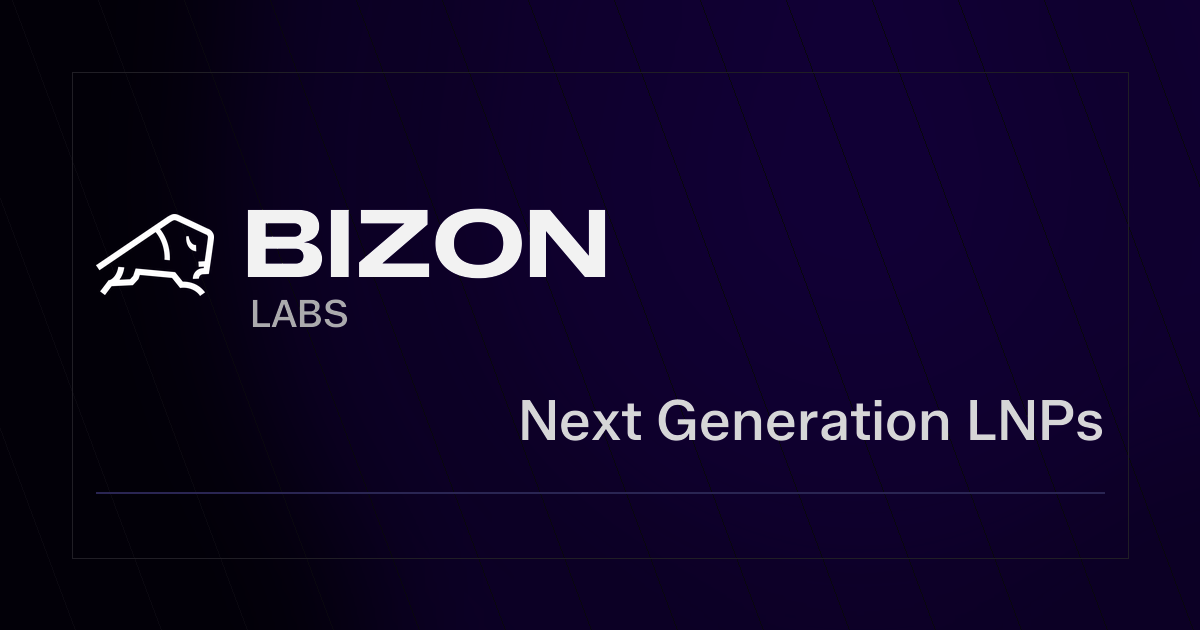
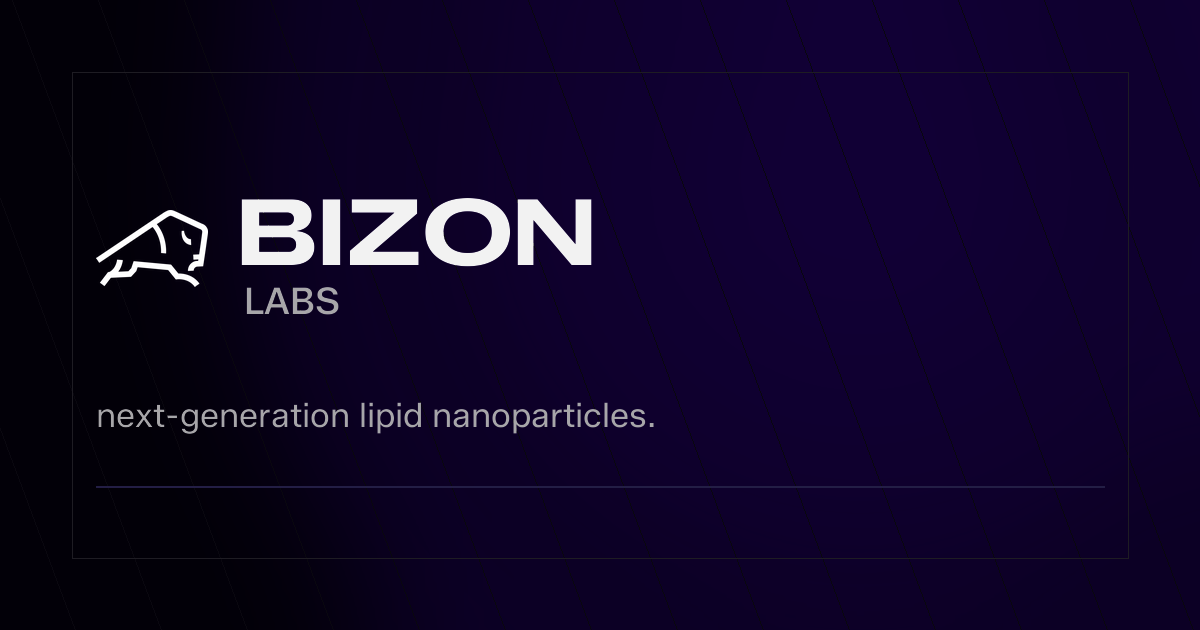
Align social preview branding

Changed region(s): [[0.0617, 0.3016, 0.5242, 0.5429], [0.0925, 0.6333, 0.925, 0.7238], [0.0925, 0.754, 0.925, 0.7841]]

diff --git a/tools/create_social_preview.py b/tools/create_social_preview.py
@@ -14,6 +14,7 @@ FONT_DIR = ROOT / "assets" / "fonts"
 ICON = ROOT / "assets" / "logos" / "bison-icon-white.svg"
 WIDTH = 1200
 HEIGHT = 630
+LEFT = 96
 
 
 def font(name: str, size: int) -> ImageFont.FreeTypeFont:
@@ -38,12 +39,12 @@ def load_bison_icon(size: int) -> Image.Image:
 
 
 def draw_wordmark(draw: ImageDraw.ImageDraw) -> None:
-    mark_font = font("ZalandoSansExpanded-Bold.ttf", 94)
-    lab_font = font("ZalandoSans-Medium.ttf", 38)
-    x = 242
-    y = 186
+    mark_font = font("ZalandoSansExpanded-Bold.ttf", 92)
+    lab_font = font("ZalandoSans-Medium.ttf", 37)
+    x = 236
+    y = 176
     draw.text((x, y), "BIZON", font=mark_font, fill=(255, 255, 255, 242))
-    draw.text((x + 8, y + 104), "LABS", font=lab_font, fill=(255, 255, 255, 170))
+    draw.text((x + 8, y + 102), "LABS", font=lab_font, fill=(255, 255, 255, 166))
 
 
 def main() -> None:
@@ -61,18 +62,17 @@ def main() -> None:
         opacity = 12 if x % 172 == 0 else 7
         draw.line([(x, 0), (x + 235, HEIGHT)], fill=(255, 255, 255, opacity), width=1)
 
-    draw.rectangle((72, 72, WIDTH - 72, HEIGHT - 72), outline=(255, 255, 255, 30), width=1)
+    draw.rectangle((72, 72, WIDTH - 72, HEIGHT - 72), outline=(255, 255, 255, 28), width=1)
 
-    icon = load_bison_icon(118)
-    overlay.alpha_composite(icon, (96, 214))
+    icon = load_bison_icon(112)
+    overlay.alpha_composite(icon, (LEFT, 210))
     draw_wordmark(draw)
 
-    line_font = font("ZalandoSans-Medium.ttf", 56)
-    text = "Next Generation LNPs"
-    bbox = draw.textbbox((0, 0), text, font=line_font)
-    draw.text((WIDTH - 96 - (bbox[2] - bbox[0]), 386), text, font=line_font, fill=(255, 255, 255, 214))
+    line_font = font("ZalandoSans-Regular.ttf", 34)
+    text = "next-generation lipid nanoparticles."
+    draw.text((LEFT, 394), text, font=line_font, fill=(255, 255, 255, 166))
 
-    draw.line((96, 492, WIDTH - 96, 492), fill=(124, 112, 235, 84), width=2)
+    draw.line((LEFT, 486, WIDTH - LEFT, 486), fill=(124, 112, 235, 68), width=2)
 
     composed = Image.alpha_composite(image.convert("RGBA"), overlay)
     composed.convert("RGB").save(OUT, quality=94)
